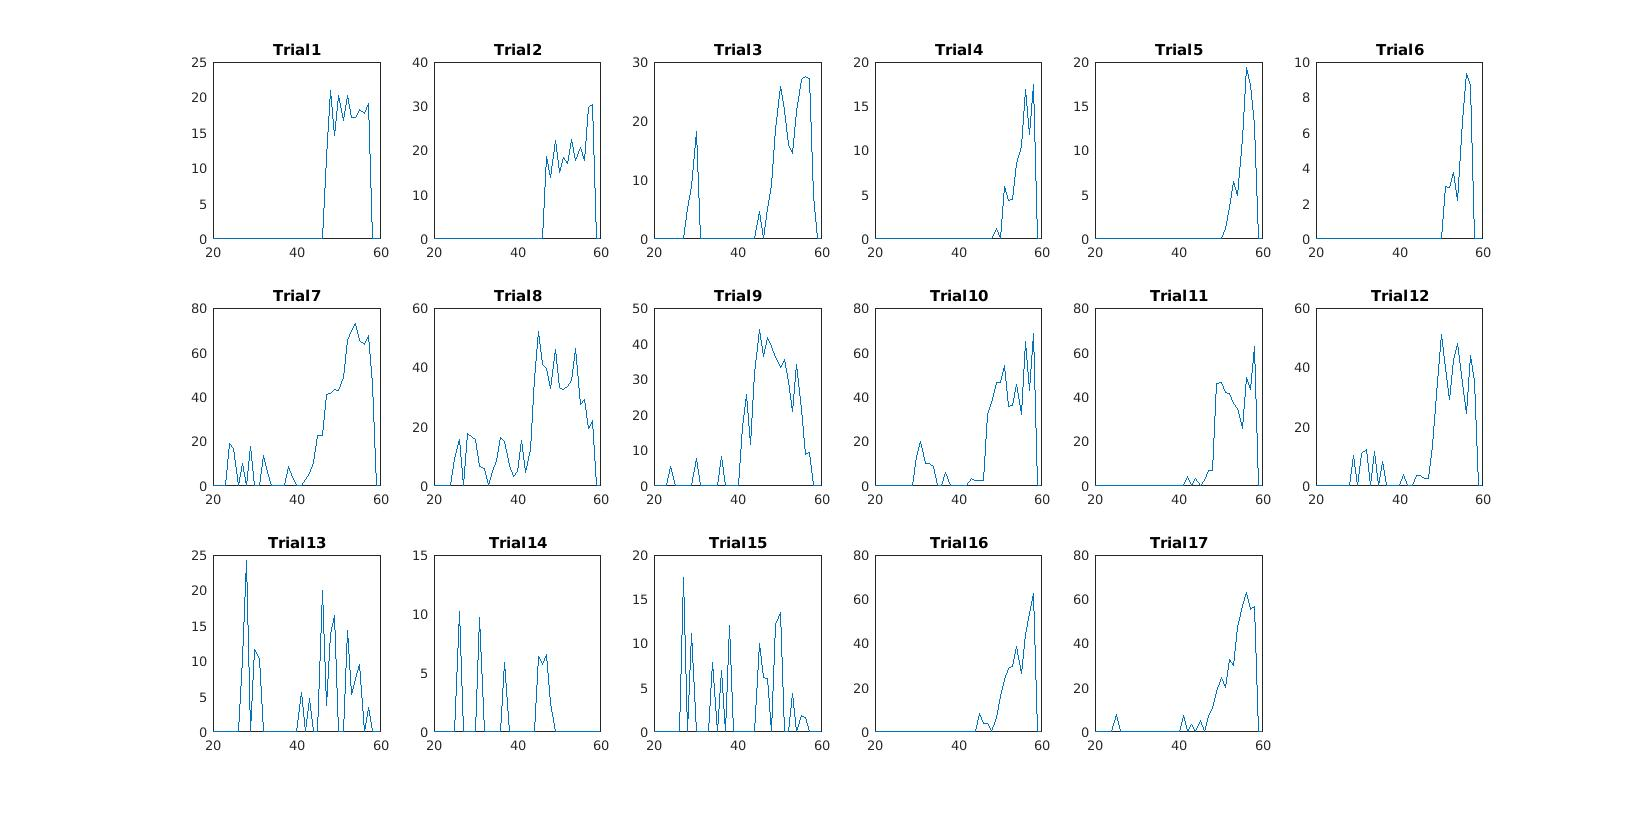
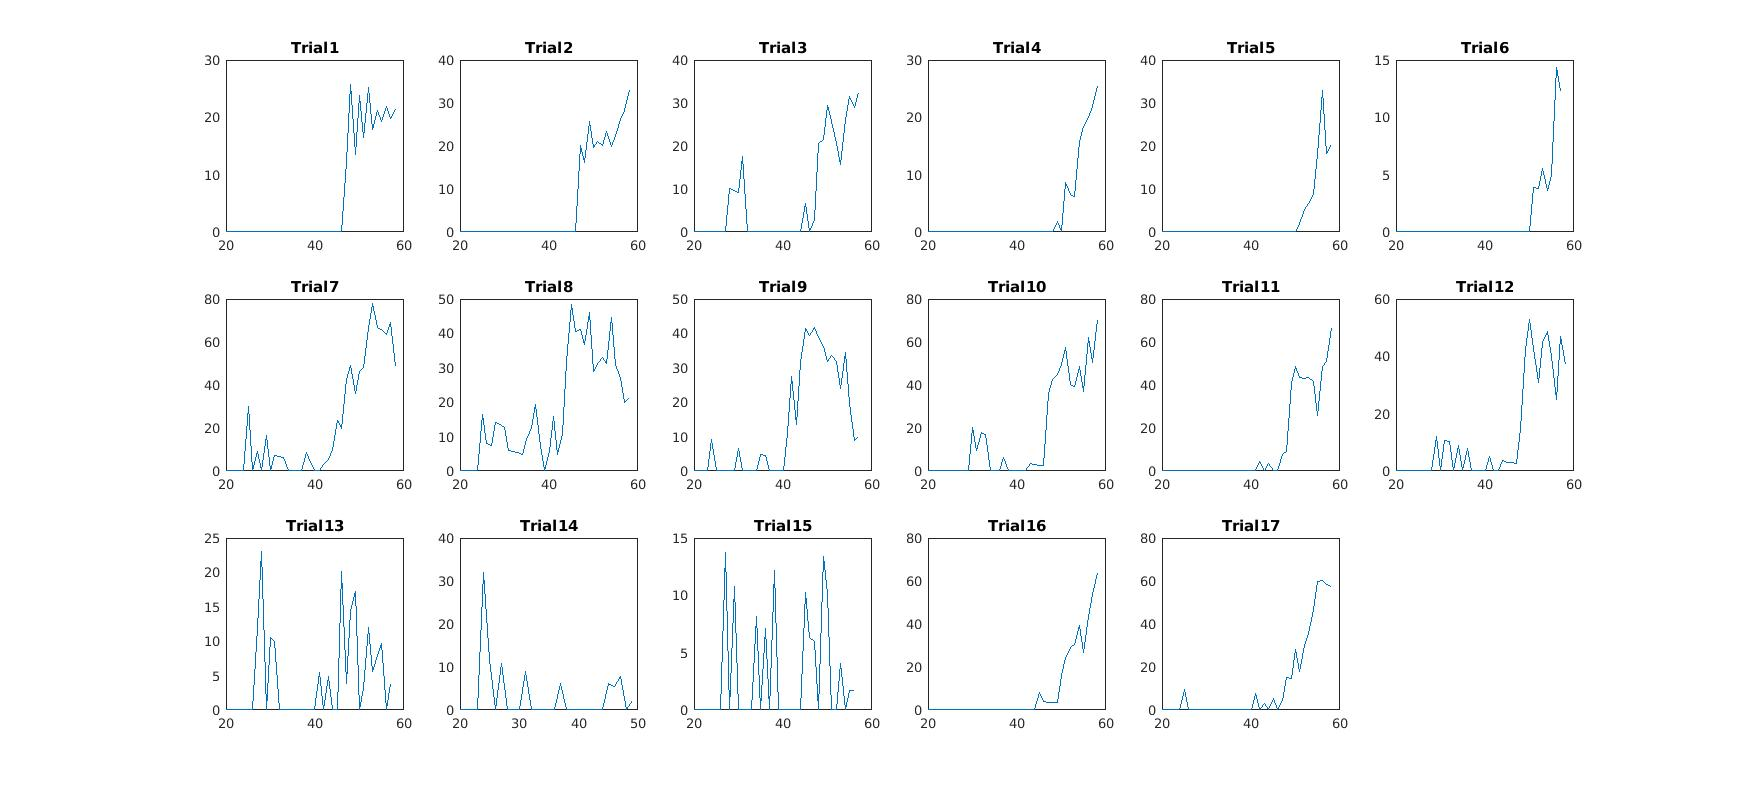
Saving before adjusting firing rate in model.

diff --git a/main.m b/main.m
@@ -1,17 +1,11 @@
 
 % COMMENTS
-% Min found A: 122.8290
-% norm theta A: 0.4009   -0.0051    0.3689   -0.0817    0.3170
-
-% Min found B: 59.4609
-% norm theta B: 0.3568    0.4610   -0.0039    0.0423    0.1438
-
-% Look at similarlities between cells. Are they grouped?
-% Normalise the parameters - does the derivative have much effect? 
+% Group A1: 4,5,6,16,17
+% Group A2: 7,8,9,10,11,12
 % Exp 18 first ramp definitely slow?
   
-% [spikes_A,temps_A,resting_A] = getData('/home/daniel/Encoding Thermal Stimuli/A fibre ramp positions.xlsx');
-% [spikes_C,temps_C,resting_C] = getData('/home/daniel/Encoding Thermal Stimuli/C fibre ramp positions.xlsx');
+[spikes_A,temps_A,resting_A] = getData('/home/daniel/Encoding Thermal Stimuli/A fibre ramp positions.xlsx');
+[spikes_C,temps_C,resting_C] = getData('/home/daniel/Encoding Thermal Stimuli/C fibre ramp positions.xlsx');
 
 disp('Data Loaded');
 
@@ -22,7 +16,7 @@ X = [];
 r0 = [];
 
 if(A)
-    t = constructTraining(spikes_A([4,5,6,16,17]),temps_A([4,5,6,16,17]),resting_A([4,5,6,16,17]),0.25);
+    t = constructTraining(spikes_A([7,8,9,10,11,12]),temps_A([7,8,9,10,11,12]),resting_A([7,8,9,10,11,12]),0.2);
     y = t(:,4);
     X = t(:,2:3);
     r0 = t(:,1);
@@ -51,7 +45,3 @@ end
 disp('Theta found');
 norm_theta = theta/(sum(abs(theta)));
 
-%[a,b] = maximumLikelihood(X(:,1),y,X(:,2));
-%N = findNonLinear(opt_theta,X,y,50);
-%options = fitoptions('poly6','Lower',[0,0,0,0,0,0]);
-%N2 = fit(N(:,1),N(:,2),'poly9');

diff --git a/testModel.m b/testModel.m
@@ -1,7 +1,7 @@
 function testModel(theta,spikes,temp,resting)
 
     [p,dp,~] = getPoly(temp,5);
-    [rate,tvec] = getRate(spikes,0.7);
+    [rate,tvec] = getRate(spikes,0.2);
     temp_vals = polyval(p,tvec);
     norm_temp = (temp_vals - mean(temp_vals))/(max(temp_vals)-min(temp_vals));
     dtemp_vals = polyval(dp,tvec);

diff --git a/costFunction.m b/costFunction.m
@@ -9,7 +9,6 @@ function J = costFunction(theta,X,y,r0)
     x0 = theta(3);
     L = theta(4);
     
-    
     linear = X(:,1:2)*theta(1:2);
     nonLinear = sigmoid(linear,x0,L,k);
     r = r0 + nonLinear;
